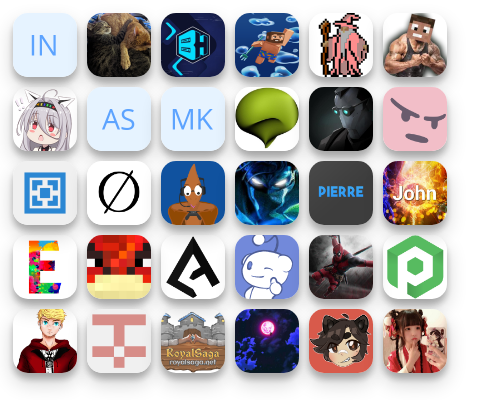
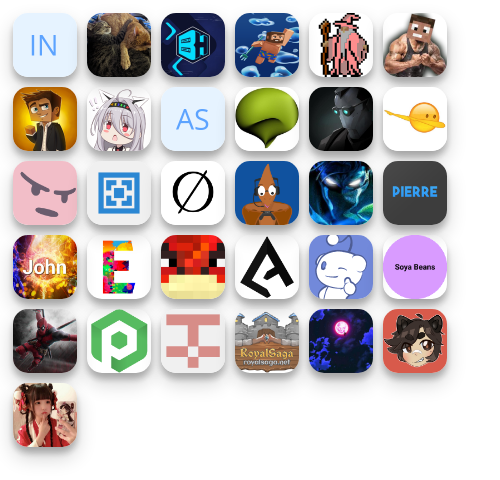
Sponsor Update

diff --git a/sponsors.html b/sponsors.html
@@ -1,7 +1,7 @@
-<html lang="en" style="height: 400px;width: 500px">
+<html lang="en" style="height: 480px;width: 500px">
     <body>
     <ul style="margin: 0;padding: 0;list-style: none;">
-        <li style="display: inline"><img src='https://images.opencollective.com/incognito-6605083f/avatar.png' alt='Incognito' title='Incognito' onerror='this.src="https://opencollective.com/static/images/default-guest-logo.svg"' style="height: 64px;width: 64px;margin: 5px;border-radius: 15px;box-shadow: 0 10px 20px rgba(0,0,0,0.19), 0 6px 6px rgba(0,0,0,0.23);"/></li><li style="display: inline"><img src='https://images.opencollective.com/kyle-wood/57ef452/avatar.png' alt='Kyle Wood' title='Kyle Wood' onerror='this.src="https://opencollective.com/static/images/default-guest-logo.svg"' style="height: 64px;width: 64px;margin: 5px;border-radius: 15px;box-shadow: 0 10px 20px rgba(0,0,0,0.19), 0 6px 6px rgba(0,0,0,0.23);"/></li><li style="display: inline"><img src='https://images.opencollective.com/bisecthosting/a176793/logo.png' alt='BisectHosting' title='BisectHosting' onerror='this.src="https://opencollective.com/static/images/default-guest-logo.svg"' style="height: 64px;width: 64px;margin: 5px;border-radius: 15px;box-shadow: 0 10px 20px rgba(0,0,0,0.19), 0 6px 6px rgba(0,0,0,0.23);"/></li><li style="display: inline"><img src='https://images.opencollective.com/camm/150c6a8/avatar.png' alt='Camm' title='Camm' onerror='this.src="https://opencollective.com/static/images/default-guest-logo.svg"' style="height: 64px;width: 64px;margin: 5px;border-radius: 15px;box-shadow: 0 10px 20px rgba(0,0,0,0.19), 0 6px 6px rgba(0,0,0,0.23);"/></li><li style="display: inline"><img src='https://images.opencollective.com/notmyfault/8026388/avatar.png' alt='NotMyFault' title='NotMyFault' onerror='this.src="https://opencollective.com/static/images/default-guest-logo.svg"' style="height: 64px;width: 64px;margin: 5px;border-radius: 15px;box-shadow: 0 10px 20px rgba(0,0,0,0.19), 0 6px 6px rgba(0,0,0,0.23);"/></li><li style="display: inline"><img src='https://images.opencollective.com/sirkillian/5f1a1fd/avatar.png' alt='SirKillian' title='SirKillian' onerror='this.src="https://opencollective.com/static/images/default-guest-logo.svg"' style="height: 64px;width: 64px;margin: 5px;border-radius: 15px;box-shadow: 0 10px 20px rgba(0,0,0,0.19), 0 6px 6px rgba(0,0,0,0.23);"/></li><li style="display: inline"><img src='https://images.opencollective.com/paper-chan/21d649c/avatar.png' alt='Paper Chan' title='Paper Chan' onerror='this.src="https://opencollective.com/static/images/default-guest-logo.svg"' style="height: 64px;width: 64px;margin: 5px;border-radius: 15px;box-shadow: 0 10px 20px rgba(0,0,0,0.19), 0 6px 6px rgba(0,0,0,0.23);"/></li><li style="display: inline"><img src='https://images.opencollective.com/andrew-steinborn/avatar.png' alt='Andrew Steinborn' title='Andrew Steinborn' onerror='this.src="https://opencollective.com/static/images/default-guest-logo.svg"' style="height: 64px;width: 64px;margin: 5px;border-radius: 15px;box-shadow: 0 10px 20px rgba(0,0,0,0.19), 0 6px 6px rgba(0,0,0,0.23);"/></li><li style="display: inline"><img src='https://images.opencollective.com/guest-e5424b5d/avatar.png' alt='Max Klug' title='Max Klug' onerror='this.src="https://opencollective.com/static/images/default-guest-logo.svg"' style="height: 64px;width: 64px;margin: 5px;border-radius: 15px;box-shadow: 0 10px 20px rgba(0,0,0,0.19), 0 6px 6px rgba(0,0,0,0.23);"/></li><li style="display: inline"><img src='https://avatars.githubusercontent.com/u/181668?v=4' alt='mbax' title='mbax' onerror='this.src="https://opencollective.com/static/images/default-guest-logo.svg"' style="height: 64px;width: 64px;margin: 5px;border-radius: 15px;box-shadow: 0 10px 20px rgba(0,0,0,0.19), 0 6px 6px rgba(0,0,0,0.23);"/></li><li style="display: inline"><img src='https://avatars.githubusercontent.com/u/3602279?u=d8ad6831864c2419b95272e155a503ea9f3b6158' alt='Doc94' title='Doc94' onerror='this.src="https://opencollective.com/static/images/default-guest-logo.svg"' style="height: 64px;width: 64px;margin: 5px;border-radius: 15px;box-shadow: 0 10px 20px rgba(0,0,0,0.19), 0 6px 6px rgba(0,0,0,0.23);"/></li><li style="display: inline"><img src='https://avatars.githubusercontent.com/u/7191851?v=4' alt='sweepyoface' title='sweepyoface' onerror='this.src="https://opencollective.com/static/images/default-guest-logo.svg"' style="height: 64px;width: 64px;margin: 5px;border-radius: 15px;box-shadow: 0 10px 20px rgba(0,0,0,0.19), 0 6px 6px rgba(0,0,0,0.23);"/></li><li style="display: inline"><img src='https://avatars.githubusercontent.com/u/10004025?v=4' alt='aternosorg' title='aternosorg' onerror='this.src="https://opencollective.com/static/images/default-guest-logo.svg"' style="height: 64px;width: 64px;margin: 5px;border-radius: 15px;box-shadow: 0 10px 20px rgba(0,0,0,0.19), 0 6px 6px rgba(0,0,0,0.23);"/></li><li style="display: inline"><img src='https://avatars.githubusercontent.com/u/13875753?u=6e3a6da4e2af646471f846dc618c251b00b58d9c' alt='LMBishop' title='LMBishop' onerror='this.src="https://opencollective.com/static/images/default-guest-logo.svg"' style="height: 64px;width: 64px;margin: 5px;border-radius: 15px;box-shadow: 0 10px 20px rgba(0,0,0,0.19), 0 6px 6px rgba(0,0,0,0.23);"/></li><li style="display: inline"><img src='https://avatars.githubusercontent.com/u/16179146?v=4' alt='pterodactyl' title='pterodactyl' onerror='this.src="https://opencollective.com/static/images/default-guest-logo.svg"' style="height: 64px;width: 64px;margin: 5px;border-radius: 15px;box-shadow: 0 10px 20px rgba(0,0,0,0.19), 0 6px 6px rgba(0,0,0,0.23);"/></li><li style="display: inline"><img src='https://avatars.githubusercontent.com/u/22596638?u=caeb1d783667d53300459717929a163ae21d58bf' alt='Taranchul' title='Taranchul' onerror='this.src="https://opencollective.com/static/images/default-guest-logo.svg"' style="height: 64px;width: 64px;margin: 5px;border-radius: 15px;box-shadow: 0 10px 20px rgba(0,0,0,0.19), 0 6px 6px rgba(0,0,0,0.23);"/></li><li style="display: inline"><img src='https://avatars.githubusercontent.com/u/27054324?u=bb7337fe6921d0d732fa56b4089366e721987ef1' alt='PierreSchwang' title='PierreSchwang' onerror='this.src="https://opencollective.com/static/images/default-guest-logo.svg"' style="height: 64px;width: 64px;margin: 5px;border-radius: 15px;box-shadow: 0 10px 20px rgba(0,0,0,0.19), 0 6px 6px rgba(0,0,0,0.23);"/></li><li style="display: inline"><img src='https://avatars.githubusercontent.com/u/28821789?v=4' alt='J0ddy' title='J0ddy' onerror='this.src="https://opencollective.com/static/images/default-guest-logo.svg"' style="height: 64px;width: 64px;margin: 5px;border-radius: 15px;box-shadow: 0 10px 20px rgba(0,0,0,0.19), 0 6px 6px rgba(0,0,0,0.23);"/></li><li style="display: inline"><img src='https://avatars.githubusercontent.com/u/35953244?v=4' alt='emielderckx' title='emielderckx' onerror='this.src="https://opencollective.com/static/images/default-guest-logo.svg"' style="height: 64px;width: 64px;margin: 5px;border-radius: 15px;box-shadow: 0 10px 20px rgba(0,0,0,0.19), 0 6px 6px rgba(0,0,0,0.23);"/></li><li style="display: inline"><img src='https://avatars.githubusercontent.com/u/42840288?u=a5c905371d28210544d8c8bb2ec8ec71f5fa8f57' alt='redbau' title='redbau' onerror='this.src="https://opencollective.com/static/images/default-guest-logo.svg"' style="height: 64px;width: 64px;margin: 5px;border-radius: 15px;box-shadow: 0 10px 20px rgba(0,0,0,0.19), 0 6px 6px rgba(0,0,0,0.23);"/></li><li style="display: inline"><img src='https://avatars.githubusercontent.com/u/43320714?u=ecfcff9db8255c901eb5d86e31bfb87bd107fc30' alt='aerulion' title='aerulion' onerror='this.src="https://opencollective.com/static/images/default-guest-logo.svg"' style="height: 64px;width: 64px;margin: 5px;border-radius: 15px;box-shadow: 0 10px 20px rgba(0,0,0,0.19), 0 6px 6px rgba(0,0,0,0.23);"/></li><li style="display: inline"><img src='https://avatars.githubusercontent.com/u/44026893?u=1aa282d38edd1262d618ee4ec268cbf1c922f5b9' alt='NoahvdAa' title='NoahvdAa' onerror='this.src="https://opencollective.com/static/images/default-guest-logo.svg"' style="height: 64px;width: 64px;margin: 5px;border-radius: 15px;box-shadow: 0 10px 20px rgba(0,0,0,0.19), 0 6px 6px rgba(0,0,0,0.23);"/></li><li style="display: inline"><img src='https://avatars.githubusercontent.com/u/48201405?u=85e72ceab23659aecbe6878d115cee49c9391857' alt='darksoldier1404' title='darksoldier1404' onerror='this.src="https://opencollective.com/static/images/default-guest-logo.svg"' style="height: 64px;width: 64px;margin: 5px;border-radius: 15px;box-shadow: 0 10px 20px rgba(0,0,0,0.19), 0 6px 6px rgba(0,0,0,0.23);"/></li><li style="display: inline"><img src='https://avatars.githubusercontent.com/u/53379531?v=4' alt='pebblehost' title='pebblehost' onerror='this.src="https://opencollective.com/static/images/default-guest-logo.svg"' style="height: 64px;width: 64px;margin: 5px;border-radius: 15px;box-shadow: 0 10px 20px rgba(0,0,0,0.19), 0 6px 6px rgba(0,0,0,0.23);"/></li><li style="display: inline"><img src='https://avatars.githubusercontent.com/u/59731738?u=20b60f5cf11f16f22da954a1fb17285229ed96c3' alt='otDan' title='otDan' onerror='this.src="https://opencollective.com/static/images/default-guest-logo.svg"' style="height: 64px;width: 64px;margin: 5px;border-radius: 15px;box-shadow: 0 10px 20px rgba(0,0,0,0.19), 0 6px 6px rgba(0,0,0,0.23);"/></li><li style="display: inline"><img src='https://avatars.githubusercontent.com/u/65355670?v=4' alt='BeastyBoo' title='BeastyBoo' onerror='this.src="https://opencollective.com/static/images/default-guest-logo.svg"' style="height: 64px;width: 64px;margin: 5px;border-radius: 15px;box-shadow: 0 10px 20px rgba(0,0,0,0.19), 0 6px 6px rgba(0,0,0,0.23);"/></li><li style="display: inline"><img src='https://avatars.githubusercontent.com/u/65445018?v=4' alt='RoyalSaga' title='RoyalSaga' onerror='this.src="https://opencollective.com/static/images/default-guest-logo.svg"' style="height: 64px;width: 64px;margin: 5px;border-radius: 15px;box-shadow: 0 10px 20px rgba(0,0,0,0.19), 0 6px 6px rgba(0,0,0,0.23);"/></li><li style="display: inline"><img src='https://avatars.githubusercontent.com/u/83250289?u=5a98b6f2a1f585f1b844e55d23f040b919d37f94' alt='Pinkhron' title='Pinkhron' onerror='this.src="https://opencollective.com/static/images/default-guest-logo.svg"' style="height: 64px;width: 64px;margin: 5px;border-radius: 15px;box-shadow: 0 10px 20px rgba(0,0,0,0.19), 0 6px 6px rgba(0,0,0,0.23);"/></li><li style="display: inline"><img src='https://avatars.githubusercontent.com/u/90304606?u=8983b209450c1d62b57546e3254cde0d11a017ef' alt='DaRacci' title='DaRacci' onerror='this.src="https://opencollective.com/static/images/default-guest-logo.svg"' style="height: 64px;width: 64px;margin: 5px;border-radius: 15px;box-shadow: 0 10px 20px rgba(0,0,0,0.19), 0 6px 6px rgba(0,0,0,0.23);"/></li><li style="display: inline"><img src='https://avatars.githubusercontent.com/u/91187349?u=c1ea640980100674bbc9719d04594c404b5dde51' alt='First-Dream' title='First-Dream' onerror='this.src="https://opencollective.com/static/images/default-guest-logo.svg"' style="height: 64px;width: 64px;margin: 5px;border-radius: 15px;box-shadow: 0 10px 20px rgba(0,0,0,0.19), 0 6px 6px rgba(0,0,0,0.23);"/></li>
+        <li style="display: inline"><img src='https://images.opencollective.com/incognito-6605083f/avatar.png' alt='Incognito' title='Incognito' onerror='this.src="https://opencollective.com/static/images/default-guest-logo.svg"' style="height: 64px;width: 64px;margin: 5px;border-radius: 15px;box-shadow: 0 10px 20px rgba(0,0,0,0.19), 0 6px 6px rgba(0,0,0,0.23);"/></li><li style="display: inline"><img src='https://images.opencollective.com/kyle-wood/57ef452/avatar.png' alt='Kyle Wood' title='Kyle Wood' onerror='this.src="https://opencollective.com/static/images/default-guest-logo.svg"' style="height: 64px;width: 64px;margin: 5px;border-radius: 15px;box-shadow: 0 10px 20px rgba(0,0,0,0.19), 0 6px 6px rgba(0,0,0,0.23);"/></li><li style="display: inline"><img src='https://images.opencollective.com/bisecthosting/a176793/logo.png' alt='BisectHosting' title='BisectHosting' onerror='this.src="https://opencollective.com/static/images/default-guest-logo.svg"' style="height: 64px;width: 64px;margin: 5px;border-radius: 15px;box-shadow: 0 10px 20px rgba(0,0,0,0.19), 0 6px 6px rgba(0,0,0,0.23);"/></li><li style="display: inline"><img src='https://images.opencollective.com/camm/150c6a8/avatar.png' alt='Camm' title='Camm' onerror='this.src="https://opencollective.com/static/images/default-guest-logo.svg"' style="height: 64px;width: 64px;margin: 5px;border-radius: 15px;box-shadow: 0 10px 20px rgba(0,0,0,0.19), 0 6px 6px rgba(0,0,0,0.23);"/></li><li style="display: inline"><img src='https://images.opencollective.com/notmyfault/8026388/avatar.png' alt='NotMyFault' title='NotMyFault' onerror='this.src="https://opencollective.com/static/images/default-guest-logo.svg"' style="height: 64px;width: 64px;margin: 5px;border-radius: 15px;box-shadow: 0 10px 20px rgba(0,0,0,0.19), 0 6px 6px rgba(0,0,0,0.23);"/></li><li style="display: inline"><img src='https://images.opencollective.com/sirkillian/5f1a1fd/avatar.png' alt='SirKillian' title='SirKillian' onerror='this.src="https://opencollective.com/static/images/default-guest-logo.svg"' style="height: 64px;width: 64px;margin: 5px;border-radius: 15px;box-shadow: 0 10px 20px rgba(0,0,0,0.19), 0 6px 6px rgba(0,0,0,0.23);"/></li><li style="display: inline"><img src='https://images.opencollective.com/guest-83328e77/e6280f2/avatar.png' alt='iLemon' title='iLemon' onerror='this.src="https://opencollective.com/static/images/default-guest-logo.svg"' style="height: 64px;width: 64px;margin: 5px;border-radius: 15px;box-shadow: 0 10px 20px rgba(0,0,0,0.19), 0 6px 6px rgba(0,0,0,0.23);"/></li><li style="display: inline"><img src='https://images.opencollective.com/paper-chan/21d649c/avatar.png' alt='Paper Chan' title='Paper Chan' onerror='this.src="https://opencollective.com/static/images/default-guest-logo.svg"' style="height: 64px;width: 64px;margin: 5px;border-radius: 15px;box-shadow: 0 10px 20px rgba(0,0,0,0.19), 0 6px 6px rgba(0,0,0,0.23);"/></li><li style="display: inline"><img src='https://images.opencollective.com/andrew-steinborn/avatar.png' alt='Andrew Steinborn' title='Andrew Steinborn' onerror='this.src="https://opencollective.com/static/images/default-guest-logo.svg"' style="height: 64px;width: 64px;margin: 5px;border-radius: 15px;box-shadow: 0 10px 20px rgba(0,0,0,0.19), 0 6px 6px rgba(0,0,0,0.23);"/></li><li style="display: inline"><img src='https://avatars.githubusercontent.com/u/181668?v=4' alt='mbax' title='mbax' onerror='this.src="https://opencollective.com/static/images/default-guest-logo.svg"' style="height: 64px;width: 64px;margin: 5px;border-radius: 15px;box-shadow: 0 10px 20px rgba(0,0,0,0.19), 0 6px 6px rgba(0,0,0,0.23);"/></li><li style="display: inline"><img src='https://avatars.githubusercontent.com/u/3602279?u=d8ad6831864c2419b95272e155a503ea9f3b6158' alt='Doc94' title='Doc94' onerror='this.src="https://opencollective.com/static/images/default-guest-logo.svg"' style="height: 64px;width: 64px;margin: 5px;border-radius: 15px;box-shadow: 0 10px 20px rgba(0,0,0,0.19), 0 6px 6px rgba(0,0,0,0.23);"/></li><li style="display: inline"><img src='https://avatars.githubusercontent.com/u/5672686?u=93bde4948627f79542d95b0c72ae3d7dc99a3040' alt='JRMurr' title='JRMurr' onerror='this.src="https://opencollective.com/static/images/default-guest-logo.svg"' style="height: 64px;width: 64px;margin: 5px;border-radius: 15px;box-shadow: 0 10px 20px rgba(0,0,0,0.19), 0 6px 6px rgba(0,0,0,0.23);"/></li><li style="display: inline"><img src='https://avatars.githubusercontent.com/u/7191851?v=4' alt='sweepyoface' title='sweepyoface' onerror='this.src="https://opencollective.com/static/images/default-guest-logo.svg"' style="height: 64px;width: 64px;margin: 5px;border-radius: 15px;box-shadow: 0 10px 20px rgba(0,0,0,0.19), 0 6px 6px rgba(0,0,0,0.23);"/></li><li style="display: inline"><img src='https://avatars.githubusercontent.com/u/10004025?v=4' alt='aternosorg' title='aternosorg' onerror='this.src="https://opencollective.com/static/images/default-guest-logo.svg"' style="height: 64px;width: 64px;margin: 5px;border-radius: 15px;box-shadow: 0 10px 20px rgba(0,0,0,0.19), 0 6px 6px rgba(0,0,0,0.23);"/></li><li style="display: inline"><img src='https://avatars.githubusercontent.com/u/13875753?u=6e3a6da4e2af646471f846dc618c251b00b58d9c' alt='LMBishop' title='LMBishop' onerror='this.src="https://opencollective.com/static/images/default-guest-logo.svg"' style="height: 64px;width: 64px;margin: 5px;border-radius: 15px;box-shadow: 0 10px 20px rgba(0,0,0,0.19), 0 6px 6px rgba(0,0,0,0.23);"/></li><li style="display: inline"><img src='https://avatars.githubusercontent.com/u/16179146?v=4' alt='pterodactyl' title='pterodactyl' onerror='this.src="https://opencollective.com/static/images/default-guest-logo.svg"' style="height: 64px;width: 64px;margin: 5px;border-radius: 15px;box-shadow: 0 10px 20px rgba(0,0,0,0.19), 0 6px 6px rgba(0,0,0,0.23);"/></li><li style="display: inline"><img src='https://avatars.githubusercontent.com/u/22596638?u=caeb1d783667d53300459717929a163ae21d58bf' alt='Taranchul' title='Taranchul' onerror='this.src="https://opencollective.com/static/images/default-guest-logo.svg"' style="height: 64px;width: 64px;margin: 5px;border-radius: 15px;box-shadow: 0 10px 20px rgba(0,0,0,0.19), 0 6px 6px rgba(0,0,0,0.23);"/></li><li style="display: inline"><img src='https://avatars.githubusercontent.com/u/27054324?u=bb7337fe6921d0d732fa56b4089366e721987ef1' alt='PierreSchwang' title='PierreSchwang' onerror='this.src="https://opencollective.com/static/images/default-guest-logo.svg"' style="height: 64px;width: 64px;margin: 5px;border-radius: 15px;box-shadow: 0 10px 20px rgba(0,0,0,0.19), 0 6px 6px rgba(0,0,0,0.23);"/></li><li style="display: inline"><img src='https://avatars.githubusercontent.com/u/28821789?v=4' alt='J0ddy' title='J0ddy' onerror='this.src="https://opencollective.com/static/images/default-guest-logo.svg"' style="height: 64px;width: 64px;margin: 5px;border-radius: 15px;box-shadow: 0 10px 20px rgba(0,0,0,0.19), 0 6px 6px rgba(0,0,0,0.23);"/></li><li style="display: inline"><img src='https://avatars.githubusercontent.com/u/35953244?v=4' alt='emielderckx' title='emielderckx' onerror='this.src="https://opencollective.com/static/images/default-guest-logo.svg"' style="height: 64px;width: 64px;margin: 5px;border-radius: 15px;box-shadow: 0 10px 20px rgba(0,0,0,0.19), 0 6px 6px rgba(0,0,0,0.23);"/></li><li style="display: inline"><img src='https://avatars.githubusercontent.com/u/42840288?u=a5c905371d28210544d8c8bb2ec8ec71f5fa8f57' alt='redbau' title='redbau' onerror='this.src="https://opencollective.com/static/images/default-guest-logo.svg"' style="height: 64px;width: 64px;margin: 5px;border-radius: 15px;box-shadow: 0 10px 20px rgba(0,0,0,0.19), 0 6px 6px rgba(0,0,0,0.23);"/></li><li style="display: inline"><img src='https://avatars.githubusercontent.com/u/43320714?u=ecfcff9db8255c901eb5d86e31bfb87bd107fc30' alt='aerulion' title='aerulion' onerror='this.src="https://opencollective.com/static/images/default-guest-logo.svg"' style="height: 64px;width: 64px;margin: 5px;border-radius: 15px;box-shadow: 0 10px 20px rgba(0,0,0,0.19), 0 6px 6px rgba(0,0,0,0.23);"/></li><li style="display: inline"><img src='https://avatars.githubusercontent.com/u/44026893?u=1aa282d38edd1262d618ee4ec268cbf1c922f5b9' alt='NoahvdAa' title='NoahvdAa' onerror='this.src="https://opencollective.com/static/images/default-guest-logo.svg"' style="height: 64px;width: 64px;margin: 5px;border-radius: 15px;box-shadow: 0 10px 20px rgba(0,0,0,0.19), 0 6px 6px rgba(0,0,0,0.23);"/></li><li style="display: inline"><img src='https://avatars.githubusercontent.com/u/45386264?u=dc8ea24e411d91aa1d03c9b4e54d79b4b3508566' alt='soyabn09' title='soyabn09' onerror='this.src="https://opencollective.com/static/images/default-guest-logo.svg"' style="height: 64px;width: 64px;margin: 5px;border-radius: 15px;box-shadow: 0 10px 20px rgba(0,0,0,0.19), 0 6px 6px rgba(0,0,0,0.23);"/></li><li style="display: inline"><img src='https://avatars.githubusercontent.com/u/48201405?u=85e72ceab23659aecbe6878d115cee49c9391857' alt='darksoldier1404' title='darksoldier1404' onerror='this.src="https://opencollective.com/static/images/default-guest-logo.svg"' style="height: 64px;width: 64px;margin: 5px;border-radius: 15px;box-shadow: 0 10px 20px rgba(0,0,0,0.19), 0 6px 6px rgba(0,0,0,0.23);"/></li><li style="display: inline"><img src='https://avatars.githubusercontent.com/u/53379531?v=4' alt='pebblehost' title='pebblehost' onerror='this.src="https://opencollective.com/static/images/default-guest-logo.svg"' style="height: 64px;width: 64px;margin: 5px;border-radius: 15px;box-shadow: 0 10px 20px rgba(0,0,0,0.19), 0 6px 6px rgba(0,0,0,0.23);"/></li><li style="display: inline"><img src='https://avatars.githubusercontent.com/u/65355670?v=4' alt='BeastyBoo' title='BeastyBoo' onerror='this.src="https://opencollective.com/static/images/default-guest-logo.svg"' style="height: 64px;width: 64px;margin: 5px;border-radius: 15px;box-shadow: 0 10px 20px rgba(0,0,0,0.19), 0 6px 6px rgba(0,0,0,0.23);"/></li><li style="display: inline"><img src='https://avatars.githubusercontent.com/u/65445018?v=4' alt='RoyalSaga' title='RoyalSaga' onerror='this.src="https://opencollective.com/static/images/default-guest-logo.svg"' style="height: 64px;width: 64px;margin: 5px;border-radius: 15px;box-shadow: 0 10px 20px rgba(0,0,0,0.19), 0 6px 6px rgba(0,0,0,0.23);"/></li><li style="display: inline"><img src='https://avatars.githubusercontent.com/u/83250289?u=5a98b6f2a1f585f1b844e55d23f040b919d37f94' alt='Pinkhron' title='Pinkhron' onerror='this.src="https://opencollective.com/static/images/default-guest-logo.svg"' style="height: 64px;width: 64px;margin: 5px;border-radius: 15px;box-shadow: 0 10px 20px rgba(0,0,0,0.19), 0 6px 6px rgba(0,0,0,0.23);"/></li><li style="display: inline"><img src='https://avatars.githubusercontent.com/u/90304606?u=8983b209450c1d62b57546e3254cde0d11a017ef' alt='DaRacci' title='DaRacci' onerror='this.src="https://opencollective.com/static/images/default-guest-logo.svg"' style="height: 64px;width: 64px;margin: 5px;border-radius: 15px;box-shadow: 0 10px 20px rgba(0,0,0,0.19), 0 6px 6px rgba(0,0,0,0.23);"/></li><li style="display: inline"><img src='https://avatars.githubusercontent.com/u/91187349?u=c1ea640980100674bbc9719d04594c404b5dde51' alt='First-Dream' title='First-Dream' onerror='this.src="https://opencollective.com/static/images/default-guest-logo.svg"' style="height: 64px;width: 64px;margin: 5px;border-radius: 15px;box-shadow: 0 10px 20px rgba(0,0,0,0.19), 0 6px 6px rgba(0,0,0,0.23);"/></li>
     </ul>
     </body>
     </html>
